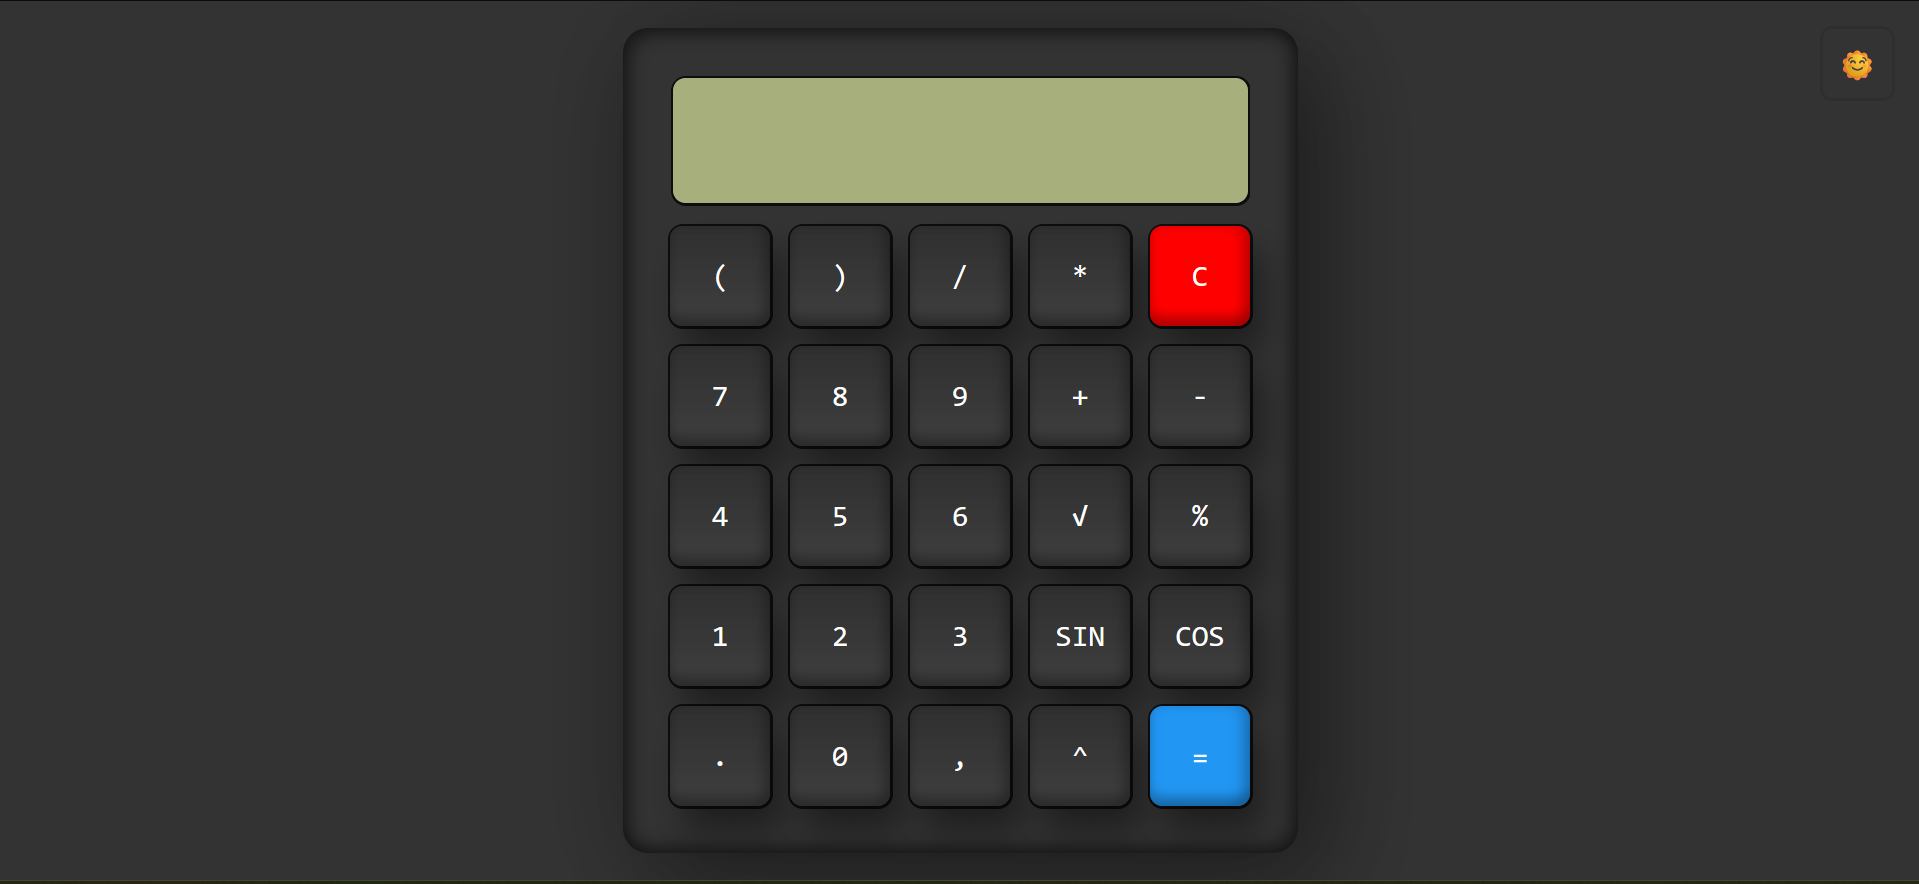
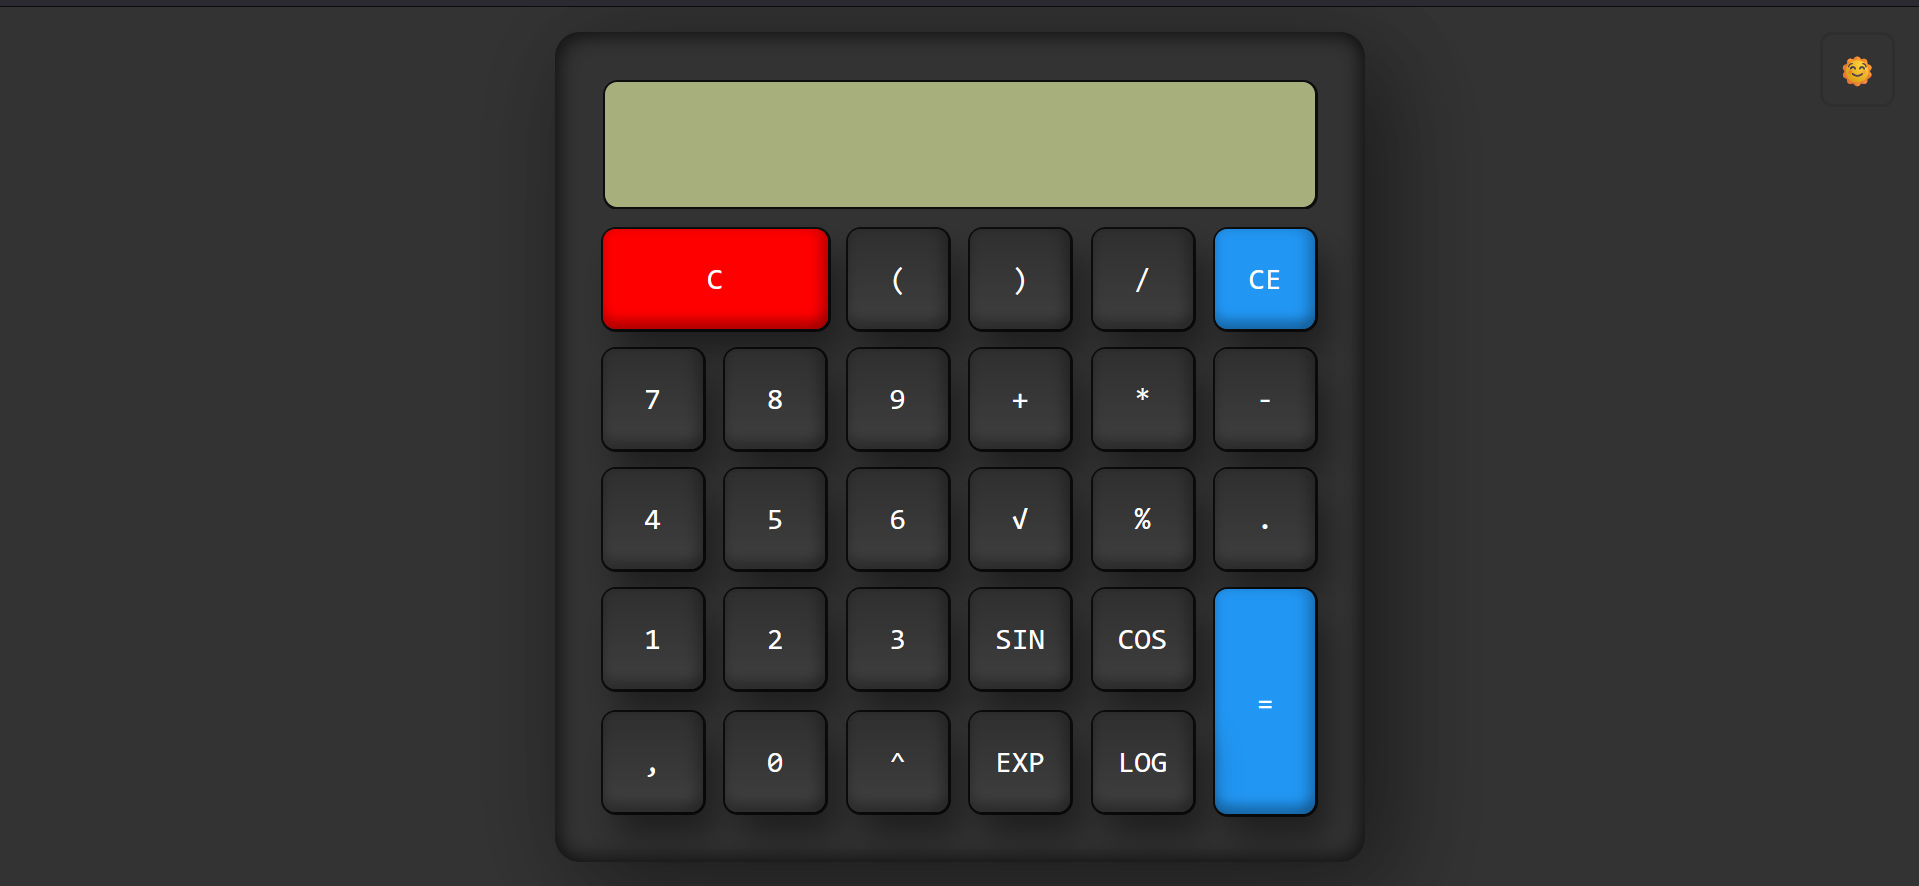
Some necessary changes done
Added screenshots of new UI of Calculator in the README file.

diff --git a/Calculators/Basic-Calculator/style.css b/Calculators/Basic-Calculator/style.css
@@ -1,199 +1,192 @@
 * {
-    margin: 0;
-    padding: 0;
-    box-sizing: border-box;
-    font-family: consolas;
+  margin: 0;
+  padding: 0;
+  box-sizing: border-box;
+  font-family: consolas;
 }
 
 body {
-    display: flex;
-    justify-content: center;
-    align-items: center;
-    min-height: 100vh;
-    background: #333;
+  display: flex;
+  justify-content: center;
+  align-items: center;
+  min-height: 100vh;
+  background: #333;
 }
 
 body.light {
-    background: #f8f8f8;
+  background: #f8f8f8;
 }
 
 .container {
-    position: relative;
-    min-width: 300px;
-    min-height: 400px;
-    background: #333;
-    padding: 40px 30px 30px;
-    border-radius: 20px;
-    box-shadow: 25px 25px 75px rgba(0, 0, 0, 0.25),
-        10px 10px 75px rgba(0, 0, 0, 0.25),
-        inset -5px -5px 15px rgba(0, 0, 0, 0.5),
-        inset 5px 5px 15px rgba(0, 0, 0, 0.5);
+  position: relative;
+  min-width: 300px;
+  min-height: 400px;
+  background: #333;
+  padding: 40px 30px 30px;
+  border-radius: 20px;
+  box-shadow: 25px 25px 75px rgba(0, 0, 0, 0.25),
+    10px 10px 75px rgba(0, 0, 0, 0.25), inset -5px -5px 15px rgba(0, 0, 0, 0.5),
+    inset 5px 5px 15px rgba(0, 0, 0, 0.5);
 }
 
 body.light .container {
-    background: #fafafa;
-    box-shadow: 25px 25px 75px rgba(0, 0, 0, 0.15),
-        10px 10px 75px rgba(0, 0, 0, 0.15),
-        inset -5px -5px 15px rgba(0, 0, 0, 0.15),
-        inset 5px 5px 15px rgba(0, 0, 0, 0.05);
+  background: #fafafa;
+  box-shadow: 25px 25px 75px rgba(0, 0, 0, 0.15),
+    10px 10px 75px rgba(0, 0, 0, 0.15), inset -5px -5px 15px rgba(0, 0, 0, 0.15),
+    inset 5px 5px 15px rgba(0, 0, 0, 0.05);
 }
 
 .calculator {
-    position: relative;
-    display: grid;
-    grid-template-columns: repeat(6, 1fr); /* Adjust the number of columns as needed */
+  position: relative;
+  display: grid;
+  grid-template-columns: repeat(6, 1fr);
 }
 
 .calculator .value {
-    position: relative;
-    grid-column: span 6; /* Adjust the span to match the number of columns */
-    height: 100px;
-    left: 10px;
-    width: calc(100% - 20px);
-    border: none;
-    outline: none;
-    background: #a7af7c;
-    margin-bottom: 10px;
-    border-radius: 10px;
-    box-shadow: 0 0 0 2px rgba(0, 0, 0, 0.75);
-    text-align: right;
-    padding: 10px;
-    font-size: 2em;
+  position: relative;
+  grid-column: span 6;
+  height: 100px;
+  left: 10px;
+  width: calc(100% - 20px);
+  border: none;
+  outline: none;
+  background: #a7af7c;
+  margin-bottom: 10px;
+  border-radius: 10px;
+  box-shadow: 0 0 0 2px rgba(0, 0, 0, 0.75);
+  text-align: right;
+  padding: 10px;
+  font-size: 2em;
 }
 
 .calculator span {
-    position: relative;
-    display: grid;
-    place-items: center;
-    width: 80px;
-    height: 80px;
-    margin: 8px;
-    background: linear-gradient(180deg, #2f2f2f, #3f3f3f);
-    box-shadow: inset -8px 0 8px rgba(0, 0, 0, 0.15),
-        inset 0 -8px 8px rgba(0, 0, 0, 0.25),
-        0 0 0 2px rgba(0, 0, 0, 0.75),
-        10px 20px 25px rgba(0, 0, 0, 0.4);
-    color: #fff;
-    user-select: none;
-    cursor: pointer;
-    font-weight: 400;
-    border-radius: 10px;
+  position: relative;
+  display: grid;
+  place-items: center;
+  width: 80px;
+  height: 80px;
+  margin: 8px;
+  background: linear-gradient(180deg, #2f2f2f, #3f3f3f);
+  box-shadow: inset -8px 0 8px rgba(0, 0, 0, 0.15),
+    inset 0 -8px 8px rgba(0, 0, 0, 0.25), 0 0 0 2px rgba(0, 0, 0, 0.75),
+    10px 20px 25px rgba(0, 0, 0, 0.4);
+  color: #fff;
+  user-select: none;
+  cursor: pointer;
+  font-weight: 400;
+  border-radius: 10px;
 }
 
-/* Rest of your CSS remains the same */
-
 body.light .calculator span::before {
-    background: linear-gradient(90deg, #e6e6e6, #efefef);
-    box-shadow: -10px -10px 10px rgba(255, 255, 255, 0.25),
-        10px 5px 10px rgba(0, 0, 0, 0.15);
-    border-left: 1px solid #fff4;
-    border-bottom: 1px solid #fff4;
-    border-top: 1px solid #fff9;
+  background: linear-gradient(90deg, #e6e6e6, #efefef);
+  box-shadow: -10px -10px 10px rgba(255, 255, 255, 0.25),
+    10px 5px 10px rgba(0, 0, 0, 0.15);
+  border-left: 1px solid #fff4;
+  border-bottom: 1px solid #fff4;
+  border-top: 1px solid #fff9;
 }
 
 .calculator span:active {
-    filter: brightness(1.5);
+  filter: brightness(1.5);
 }
 
 body.light .calculator span:active {
-    filter: brightness(0.9);
+  filter: brightness(0.9);
 }
 
 .calculator span i {
-    position: relative;
-    font-style: normal;
-    font-size: 1.5em;
-    text-transform: uppercase;
+  position: relative;
+  font-style: normal;
+  font-size: 1.5em;
+  text-transform: uppercase;
 }
 
 body.light .calculator span i {
-    color: #fff;
+  color: #fff;
 }
 
 body.light .calculator span.clear i,
 body.light .calculator span.result-give i {
-    color: #fff;
+  color: #fff;
 }
 
 body.light .calculator .clear,
 .calculator .clear {
-    grid-column: span 2;
-    width: 180px;
-    background: #f00;
+  grid-column: span 2;
+  width: 180px;
+  background: #f00;
 }
 
 body.light .calculator .clear-one,
 .calculator .clear-one {
-    background: #2196f3;
+  background: #2196f3;
 }
 
 body.light .calculator .clear::before,
 .calculator .clear::before {
-    background: linear-gradient(90deg, #d20030, #ffffff5c);
-    border-left: 1px solid #fff4;
-    border-bottom: 1px solid #fff4;
-    border-top: 1px solid #fff4;
+  background: linear-gradient(90deg, #d20030, #ffffff5c);
+  border-left: 1px solid #fff4;
+  border-bottom: 1px solid #fff4;
+  border-top: 1px solid #fff4;
 }
 
 .calculator .equal {
-    grid-row: span 2;
-    height: 180px;
+  grid-row: span 2;
+  height: 180px;
 }
 
 body.light .calculator .result-give,
 .calculator .result-give {
-    background: #2196f3;
+  background: #2196f3;
 }
 
 body.light .calculator .result-give::before,
 .calculator .result-give::before {
-    background: linear-gradient(90deg, #1479c9, #ffffff5c);
-    border-left: 1px solid #fff4;
-    border-bottom: 1px solid #fff4;
-    border-top: 1px solid #fff4;
+  background: linear-gradient(90deg, #1479c9, #ffffff5c);
+  border-left: 1px solid #fff4;
+  border-bottom: 1px solid #fff4;
+  border-top: 1px solid #fff4;
 }
 
 .btn {
-    position: absolute;
-    border: rgba(0, 0, 0, 0.1) solid;
-    border-radius: 10px;
-    top: 20px;
-    right: 20px;
-    width: 60px;
-    height: 60px;
-    background: #333;
-    font-size: 1.5em;
-    box-shadow: 5px 5px 15px rgba(0, 0, 0, 0.25),
-        5px 5px 30px rgba(0, 0, 0, 0.25),
-        inset -2px -2px -5px rgba(0, 0, 0, 0.25),
-        inset 2px 2px 5px rgba(0, 0, 0, 0.25);
-    display: flex;
-    justify-content: center;
-    align-items: center;
-    cursor: pointer;
+  position: absolute;
+  border: rgba(0, 0, 0, 0.1) solid;
+  border-radius: 10px;
+  top: 20px;
+  right: 20px;
+  width: 60px;
+  height: 60px;
+  background: #333;
+  font-size: 1.5em;
+  box-shadow: 5px 5px 15px rgba(0, 0, 0, 0.25), 5px 5px 30px rgba(0, 0, 0, 0.25),
+    inset -2px -2px -5px rgba(0, 0, 0, 0.25),
+    inset 2px 2px 5px rgba(0, 0, 0, 0.25);
+  display: flex;
+  justify-content: center;
+  align-items: center;
+  cursor: pointer;
 }
 
 body.light .btn {
-    background: #000;
-    box-shadow: 5px 5px 15px rgba(0, 0, 0, 0.1),
-        5px 5px 30px rgba(0, 0, 0, 0.05),
-        inset -2px -2px -5px rgba(0, 0, 0, 0.1),
-        inset 2px 2px 5px rgba(0, 0, 0, 0.05);
+  background: #000;
+  box-shadow: 5px 5px 15px rgba(0, 0, 0, 0.1), 5px 5px 30px rgba(0, 0, 0, 0.05),
+    inset -2px -2px -5px rgba(0, 0, 0, 0.1),
+    inset 2px 2px 5px rgba(0, 0, 0, 0.05);
 }
 
 .btn strong {
-    display: none;
-    color: yellow;
+  display: none;
+  color: yellow;
 }
 
 .btn strong:nth-child(1) {
-    display: block;
+  display: block;
 }
 
 body.light .btn strong:nth-child(1) {
-    display: none;
+  display: none;
 }
 
 body.light .btn strong:nth-child(2) {
-    display: block;
+  display: block;
 }

diff --git a/Calculators/Basic-Calculator/index.html b/Calculators/Basic-Calculator/index.html
@@ -11,35 +11,29 @@
 
 <body>
     <div class="btn">
-        <strong>🌞</strong>
-        <strong>🌙</strong>
+        <strong>🌞</strong><strong>🌙</strong>
     </div>
 
     <div class="container">
         <form class="calculator" name="calc">
-
             <input type="text" class="value" readonly name="txt">
-
             <span class="num clear" onclick="calc.txt.value = '' "><i>C</i></span>
             <span class="num" onclick="calc.txt.value += '(' "><i>(</i></span>
             <span class="num" onclick="calc.txt.value += ')' "><i>)</i></span>
             <span class="num" onclick="calc.txt.value += '/' "><i>/</i></span>
             <span class="num clear-one" onclick="clearOne()"><i>CE</i></span>
-
             <span class="num" onclick="calc.txt.value += '7' "><i>7</i></span>
             <span class="num" onclick="calc.txt.value += '8' "><i>8</i></span>
             <span class="num" onclick="calc.txt.value += '9' "><i>9</i></span>
             <span class="num" onclick="calc.txt.value += '+' "><i>+</i></span>
             <span class="num" onclick="calc.txt.value += '*' "><i>*</i></span>
             <span class="num" onclick="calc.txt.value += '-' "><i>-</i></span>
-
             <span class="num" onclick="calc.txt.value += '4' "><i>4</i></span>
             <span class="num" onclick="calc.txt.value += '5' "><i>5</i></span>
             <span class="num" onclick="calc.txt.value += '6' "><i>6</i></span>
             <span class="num" onclick="calc.txt.value += 'Math.sqrt(' "><i>√</i></span>
             <span class="num" onclick="calc.txt.value += '%' "><i>%</i></span>
             <span class="num" onclick="calc.txt.value += '.' "><i>.</i></span>
-
             <span class="num" onclick="calc.txt.value += '1' "><i>1</i></span>
             <span class="num" onclick="calc.txt.value += '2' "><i>2</i></span>
             <span class="num" onclick="calc.txt.value += '3' "><i>3</i></span>
@@ -51,10 +45,7 @@
             <span class="num" onclick="calc.txt.value += ',' "><i>,</i></span>
             <span class="num" onclick="calc.txt.value += '0' "><i>0</i></span>
             <span class="num" onclick="calc.txt.value += 'Math.pow(' "><i>^</i></span>
-
-            <!-- New column of buttons -->
             <span class="num" onclick="calc.txt.value += 'Math.exp(' "><i>exp</i></span>
-
             <span class="num" onclick="calc.txt.value += 'Math.log(' "><i>log</i></span>
         </form>
     </div>
@@ -83,7 +74,6 @@
             let currentValue = calc.txt.value;
             calc.txt.value = currentValue.slice(0, -1);
         }
-
     </script>
 </body>
 

diff --git a/Calculators/Basic-Calculator/README.md b/Calculators/Basic-Calculator/README.md
@@ -2,7 +2,7 @@
 
 ## Description :-
 
-This calculator will help you calculate your basic arithmetic calculations. This is your user friendly basic calculator. It has added functionality of switching between dark and light mode. It has a modern design with a simple and easy to use interface. 
+This calculator will help you calculate your basic arithmetic calculations. This is your user friendly basic calculator. It has added functionality of switching between dark and light mode. It has a modern design with a simple and easy to use interface. Best for your daily use.
 
 ## Tech Stack :-
 
@@ -14,4 +14,4 @@ This calculator will help you calculate your basic arithmetic calculations. This
 ### Dark Mode:
 ![Calculator-Demo-Image-Dark](image.png) <br><br>
 ### Light Mode:
-![Calculator-Demo-Image-Light](image-1.png)
+![Calculator-Demo-Image-Light](image-2.png)
